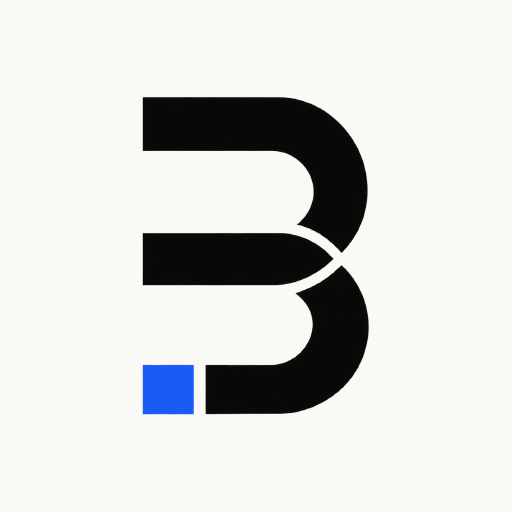
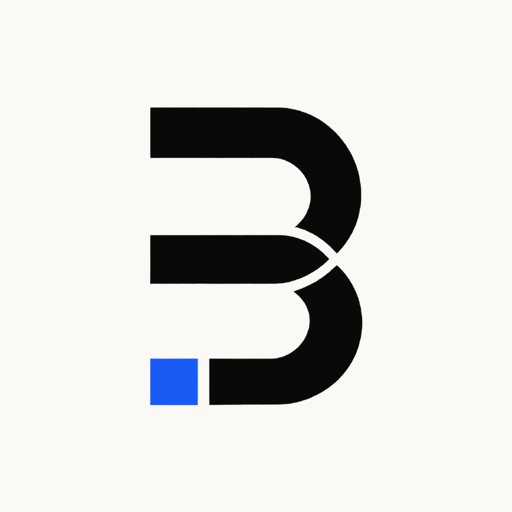
Uppdatera alla faviconer till nya appikonen

Changed region(s): [[0.25, 0.4375, 0.7188, 0.8125], [0.25, 0.1875, 0.7188, 0.4688]]

diff --git a/src/favicon.test.ts b/src/favicon.test.ts
@@ -1,0 +1,40 @@
+import { describe, expect, it } from "vitest";
+import html from "../index.html?raw";
+import faviconIco from "../public/favicon.ico?url";
+import faviconLight from "../public/favicon-light.png?url";
+import faviconDark from "../public/favicon-dark.png?url";
+import appleTouchIcon from "../public/apple-touch-icon.png?url";
+import icon192 from "../public/icon-192.png?url";
+import icon512 from "../public/icon-512.png?url";
+import iconMaskable512 from "../public/icon-maskable-512.png?url";
+import manifestSource from "../public/manifest.webmanifest?raw";
+
+describe("brand icons", () => {
+  it("uses the new app icon for every browser icon variant", () => {
+    expect(html).toContain('href="/favicon.ico"');
+    expect(html).toContain('href="/favicon-light.png" media="(prefers-color-scheme: light)"');
+    expect(html).toContain('href="/favicon-dark.png" media="(prefers-color-scheme: dark)"');
+    expect(html).toContain('href="/apple-touch-icon.png"');
+    expect(html).not.toContain('rel="icon" type="image/png" href="/brandmark.png"');
+
+    expect(faviconIco).toContain("favicon.ico");
+    expect(faviconLight).toContain("favicon-light.png");
+    expect(faviconDark).toContain("favicon-dark.png");
+    expect(appleTouchIcon).toContain("apple-touch-icon.png");
+  });
+
+  it("keeps every installable icon declared in the manifest", () => {
+    const manifest = JSON.parse(manifestSource) as {
+      icons: Array<{ src: string; sizes: string; type: string; purpose?: string }>;
+    };
+
+    expect(manifest.icons).toEqual([
+      { src: "/icon-192.png", sizes: "192x192", type: "image/png" },
+      { src: "/icon-512.png", sizes: "512x512", type: "image/png" },
+      { src: "/icon-maskable-512.png", sizes: "512x512", type: "image/png", purpose: "maskable" },
+    ]);
+    expect(icon192).toContain("icon-192.png");
+    expect(icon512).toContain("icon-512.png");
+    expect(iconMaskable512).toContain("icon-maskable-512.png");
+  });
+});

diff --git a/index.html b/index.html
@@ -2,12 +2,14 @@
 <html lang="sv">
   <head>
     <meta charset="UTF-8" />
-    <link rel="icon" type="image/png" href="/brandmark.png" />
+    <link rel="icon" href="/favicon.ico" sizes="any" />
+    <link rel="icon" type="image/png" sizes="32x32" href="/favicon-light.png" media="(prefers-color-scheme: light)" />
+    <link rel="icon" type="image/png" sizes="32x32" href="/favicon-dark.png" media="(prefers-color-scheme: dark)" />
     <meta name="viewport" content="width=device-width, initial-scale=1.0, viewport-fit=cover" />
     <meta name="theme-color" content="#faf9f6" />
     <meta name="robots" content="noindex, nofollow, noarchive, nosnippet" />
     <link rel="manifest" href="/manifest.webmanifest" />
-    <link rel="apple-touch-icon" href="/icon-192.png" />
+    <link rel="apple-touch-icon" sizes="180x180" href="/apple-touch-icon.png" />
     <title>Be a Legend</title>
   </head>
   <body>
